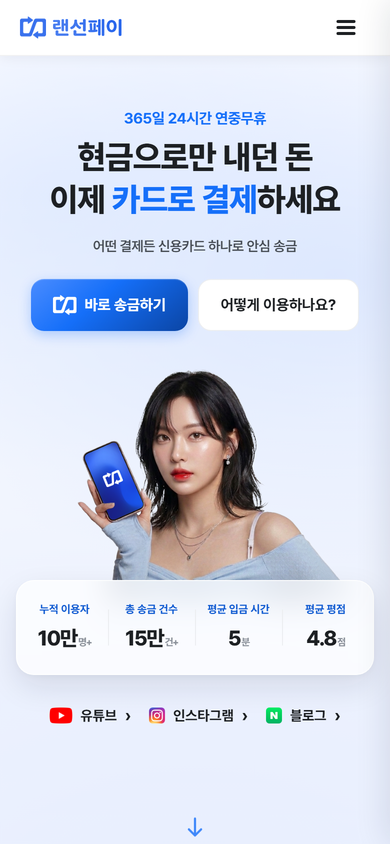
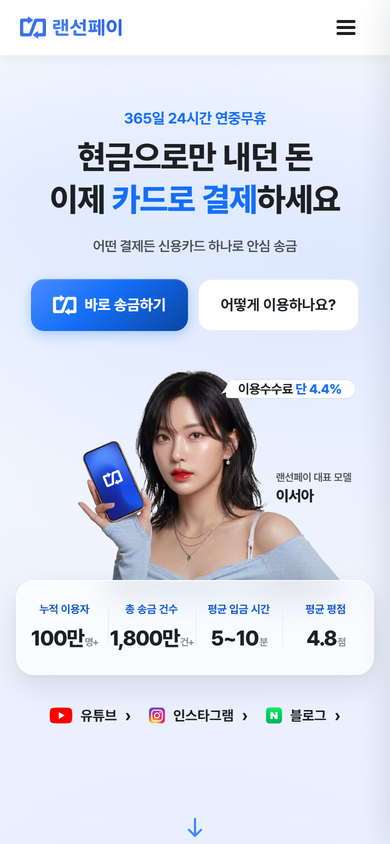
클라이언트 수정 요청 1 · 2 · 3 · 4 · 6번 반영
1. 메인 「쉽고 빠른 결제 시스템」 단락을 사진 띠(불편했던 현금거래) 앞으로
2. 히어로 모델에 말풍선 「이용수수료 단 4.4%」 · 모델명 캡션 추가
3. 연락처 전체 — 대표번호 1577-6369 · 카카오채널 @랜선페이 · 이메일 lanpay567@naver.com
4. 숫자 — 누적 100만명 · 송금 1,800만건 · 입금 5~10분 (회사소개 · 가이드 목업 포함)
6. 푸터 — 운영시간 제거 · 통신판매업신고번호(공란) 추가

diff --git a/index.html b/index.html
@@ -915,6 +915,24 @@
     max-height:calc(var(--mw) / 1.398 * 1.15);}
   /* 새 사진은 원본과 좌우 여백이 달라서, 사람이 예전과 똑같은 자리에 오도록 맞춘다 */
   .hmodel img{position:absolute; top:0; left:15.47%; width:88.58%; height:auto; display:block;}
+  /* 말풍선 · 모델명 — 사진 칸 안 오른쪽 빈 자리에 */
+  .hbub{position:absolute; z-index:3; top:5%; right:3%;
+    padding:9px 13px 9px 12px; border-radius:16px 16px 16px 4px;
+    background:#fff; color:var(--ink); font-size:13px; font-weight:700; letter-spacing:-.3px; white-space:nowrap;
+    box-shadow:0 12px 26px -14px rgba(15,23,42,.45), 0 0 0 1px rgba(21,111,249,.08);}
+  .hbub b{color:var(--primary); font-weight:800;}
+  .hbub:after{content:''; position:absolute; left:-5px; bottom:6px; width:12px; height:12px;
+    background:#fff; clip-path:polygon(100% 0, 100% 100%, 0 100%); transform:skewY(-20deg);}
+  .hname{position:absolute; z-index:3; right:4%; top:44%; text-align:left; line-height:1.25;}
+  .hname small{display:block; font-size:10.5px; font-weight:600; color:var(--sub); letter-spacing:-.2px;}
+  .hname b{display:block; margin-top:2px; font-size:15px; font-weight:800; color:var(--ink); letter-spacing:-.4px;}
+  @media(min-width:768px){
+    .hbub{top:6%; right:2%; padding:12px 18px 12px 16px; font-size:16px; border-radius:20px 20px 20px 5px;}
+    .hbub:after{left:-6px; bottom:8px; width:15px; height:15px;}
+    .hname{right:3%; top:46%;}
+    .hname small{font-size:12.5px;}
+    .hname b{font-size:19px; margin-top:3px;}
+  }
   /* 글 묶음과 사진 사이 최소 숨통 */
   .hero > .hero2{margin-bottom:clamp(22px, 4svh, 54px);}
   /* PC — 사진 1.2배 · 40px 위로 */
@@ -1458,13 +1476,15 @@
 
     <div class="hmodel">
       <img src="img/people3.png?v=1" alt="랜선페이를 쓰는 모델">
+      <span class="hbub">이용수수료 <b>단 4.4%</b></span>
+      <span class="hname"><small>랜선페이 대표 모델</small><b>이서아</b></span>
     </div>
 
     <div class="wrap statwrap">
       <div class="hstats">
-        <div><span>누적 이용자</span><b><em class="cnt" data-to="10">0</em>만<i>명+</i></b></div>
-        <div><span>총 송금 건수</span><b><em class="cnt" data-to="15">0</em>만<i>건+</i></b></div>
-        <div><span>평균 입금 시간</span><b><em class="cnt" data-to="5">0</em><i>분</i></b></div>
+        <div><span>누적 이용자</span><b><em class="cnt" data-to="100">0</em>만<i>명+</i></b></div>
+        <div><span>총 송금 건수</span><b><em class="cnt" data-to="1800" data-comma="1">0</em>만<i>건+</i></b></div>
+        <div><span>평균 입금 시간</span><b>5~<em class="cnt" data-to="10">0</em><i>분</i></b></div>
         <div><span>평균 평점</span><b><em class="cnt" data-to="4.8" data-dec="1">0</em><i>점</i></b></div>
       </div>
     </div>
@@ -1521,6 +1541,47 @@
 
   <!-- ===== 랜선페이를 써야 하는 이유 — 1~7 펼침 ===== -->
   <div class="midband">
+  <!-- ===== 5. 이용 방법 — 6단계 상세 ===== -->
+  <section class="sec tint" id="howto">
+    <div class="wrap">
+      <div class="head">
+        <h2 class="h-sec"><span class="hl">쉽고 빠른</span> 결제 시스템</h2>
+        <a class="morelink" href="guide.html">자세한 이용가이드 보기<svg viewBox="0 0 22 22" aria-hidden="true"><path d="M8.5 4.5 15 11l-6.5 6.5" stroke="currentColor" stroke-width="2.6" fill="none" stroke-linecap="round" stroke-linejoin="round"/></svg></a>
+      </div>
+
+      <div class="hwrap">
+        <img class="hpic" src="img/band-bg.jpg?v=3" alt="랜선페이 앱으로 결제하는 모습">
+        <div class="hcol">
+          <div class="hphone"><img id="hshot" src="img/guide_shots/login.png?v=2" alt="단계별 앱 화면"></div>
+          <div class="hnav">
+            <button class="hbtn" type="button" id="hprev" aria-label="이전 단계">‹</button>
+            <span class="hcount"><b id="hnow">1</b> / 4</span>
+            <button class="hbtn" type="button" id="hnext" aria-label="다음 단계">›</button>
+          </div>
+        </div>
+        <ol class="tline">
+          <li class="tstep on" data-shot="img/guide_shots/reg2.png?v=1" role="button" tabindex="0">
+            <span class="tno">1</span>
+            <div class="tbd"><h3>결제 정보 등록</h3><p>결제할 항목과 금액 · 받는 분 계좌를 입력하세요<br>한 번 등록하면 다음부터는 불러와서 씁니다</p></div>
+          </li>
+          <li class="tstep" data-shot="img/guide_shots/reg4.png?v=1" role="button" tabindex="0">
+            <span class="tno">2</span>
+            <div class="tbd"><h3>서류 검토</h3><p>임대차계약서 같은 증빙 서류를 올리면<br>연중무휴로 검토해 보통 10분 안에 알려드려요</p></div>
+          </li>
+          <li class="tstep" data-shot="img/guide_shots/reg3.png?v=1" role="button" tabindex="0">
+            <span class="tno">3</span>
+            <div class="tbd"><h3>신용카드로 결제</h3><p>등록한 내용을 확인하고 카드로 결제하세요<br>일시불부터 최대 24개월 할부까지 됩니다</p></div>
+          </li>
+          <li class="tstep" data-shot="img/guide_shots/done.png?v=1" role="button" tabindex="0">
+            <span class="tno">4</span>
+            <div class="tbd"><h3>송금 확인</h3><p>결제가 확인되면 평균 5분 안에 입금되고<br>내역은 마이페이지에서 바로 볼 수 있어요</p></div>
+          </li>
+        </ol>
+      </div>
+
+    </div>
+  </section>
+
   <div class="wrap bandhead">
     <div class="bandclip">
       <div class="bandart">
@@ -1570,46 +1631,6 @@
     </div>
   </section>
 
-  <!-- ===== 5. 이용 방법 — 6단계 상세 ===== -->
-  <section class="sec tint" id="howto">
-    <div class="wrap">
-      <div class="head">
-        <h2 class="h-sec"><span class="hl">쉽고 빠른</span> 결제 시스템</h2>
-        <a class="morelink" href="guide.html">자세한 이용가이드 보기<svg viewBox="0 0 22 22" aria-hidden="true"><path d="M8.5 4.5 15 11l-6.5 6.5" stroke="currentColor" stroke-width="2.6" fill="none" stroke-linecap="round" stroke-linejoin="round"/></svg></a>
-      </div>
-
-      <div class="hwrap">
-        <img class="hpic" src="img/band-bg.jpg?v=3" alt="랜선페이 앱으로 결제하는 모습">
-        <div class="hcol">
-          <div class="hphone"><img id="hshot" src="img/guide_shots/login.png?v=2" alt="단계별 앱 화면"></div>
-          <div class="hnav">
-            <button class="hbtn" type="button" id="hprev" aria-label="이전 단계">‹</button>
-            <span class="hcount"><b id="hnow">1</b> / 4</span>
-            <button class="hbtn" type="button" id="hnext" aria-label="다음 단계">›</button>
-          </div>
-        </div>
-        <ol class="tline">
-          <li class="tstep on" data-shot="img/guide_shots/reg2.png?v=1" role="button" tabindex="0">
-            <span class="tno">1</span>
-            <div class="tbd"><h3>결제 정보 등록</h3><p>결제할 항목과 금액 · 받는 분 계좌를 입력하세요<br>한 번 등록하면 다음부터는 불러와서 씁니다</p></div>
-          </li>
-          <li class="tstep" data-shot="img/guide_shots/reg4.png?v=1" role="button" tabindex="0">
-            <span class="tno">2</span>
-            <div class="tbd"><h3>서류 검토</h3><p>임대차계약서 같은 증빙 서류를 올리면<br>연중무휴로 검토해 보통 10분 안에 알려드려요</p></div>
-          </li>
-          <li class="tstep" data-shot="img/guide_shots/reg3.png?v=1" role="button" tabindex="0">
-            <span class="tno">3</span>
-            <div class="tbd"><h3>신용카드로 결제</h3><p>등록한 내용을 확인하고 카드로 결제하세요<br>일시불부터 최대 24개월 할부까지 됩니다</p></div>
-          </li>
-          <li class="tstep" data-shot="img/guide_shots/done.png?v=1" role="button" tabindex="0">
-            <span class="tno">4</span>
-            <div class="tbd"><h3>송금 확인</h3><p>결제가 확인되면 평균 5분 안에 입금되고<br>내역은 마이페이지에서 바로 볼 수 있어요</p></div>
-          </li>
-        </ol>
-      </div>
-
-    </div>
-  </section>
 
   <!-- ===== 4. 기능 3가지 — 흰 카드 3장 + 모서리 배지 ===== -->
   <section class="sec tint" id="featsec">
@@ -1707,7 +1728,7 @@
   <section class="sec tint" id="rvsec">
     <div class="wrap">
       <div class="head">
-        <h2 class="h-sec"><span class="soft">10만명+이 선택한 랜선페이</span><br>평균 평점 <span class="hl">4.8점</span></h2>
+        <h2 class="h-sec"><span class="soft">100만명+이 선택한 랜선페이</span><br>평균 평점 <span class="hl">4.8점</span></h2>
       </div>
     </div>
     <div class="rvband">
@@ -1809,9 +1830,11 @@
       <span><b>대표</b>김남기</span>
       <span><b>서버책임 · 개인정보관리자</b>민기범</span>
       <span><b>사업자등록번호</b>437-88-03148</span>
+      <span><b>통신판매업신고번호</b></span>
       <span><b>주소</b>충청남도 천안시 서북구 쌍용대로 234, 방영학생활건강빌딩 3층 (성정동)</span>
-      <span><b>대표번호</b>1577-6369 (평일 9:00~18:00)</span>
-      <span><b>메일</b>help@lanseonpay.co.kr</span>
+      <span><b>대표번호</b>1577-6369</span>
+      <span><b>카카오채널</b>@랜선페이</span>
+      <span><b>이메일</b>lanpay567@naver.com</span>
     </div>
     <p class="fnote">랜선페이는 전자금융거래법에 따라 등록된 전자지급결제대행(PG) 서비스입니다.</p>
     <p class="fcopy">Copyright © 2026 랜선페이. All rights reserved.</p>
@@ -2238,7 +2261,8 @@
     var to = parseFloat(el.dataset.to), dec = +(el.dataset.dec || 0), t0 = performance.now(), dur = 1100;
     (function tick(now){
       var p = Math.min(1, (now - t0) / dur), e = 1 - Math.pow(1 - p, 3);
-      el.textContent = (to * e).toFixed(dec);
+      var v = (to * e).toFixed(dec);
+      el.textContent = el.dataset.comma ? Number(v).toLocaleString('ko-KR') : v;
       if(p < 1) requestAnimationFrame(tick);
     })(t0);
   }

diff --git a/about.html b/about.html
@@ -485,7 +485,7 @@
       <div class="numwrap">
         <div class="num-tx">
           <h2 class="h-sec">랜선페이는 지금도<br><span class="hl">함께 성장하고 있습니다</span></h2>
-          <p><b>10만여 명</b>이 선택했고 하루에도 <b>수백 건</b>이 랜선페이를 통해 결제됩니다.<br class="pcbr">
+          <p><b>100만여 명</b>이 선택했고 하루에도 <b>수백 건</b>이 랜선페이를 통해 결제됩니다.<br class="pcbr">
             쌓이는 거래만큼 서비스와 신뢰도 하루하루 더 단단해지고 있습니다.</p>
           <div class="astats">
             <div class="ast"><b><span class="countup">10</span>만명<i>+</i></b><span>누적 이용자</span></div>
@@ -524,7 +524,7 @@
             <circle cx="396" cy="82" r="11" fill="#2563EB" opacity=".14"/>
             <circle cx="396" cy="82" r="5.5" fill="#2563EB"/>
             <text x="396" y="52" text-anchor="middle" font-size="19" font-weight="800"
-              fill="#1D4ED8" letter-spacing="-.6">10만명+</text>
+              fill="#1D4ED8" letter-spacing="-.6">100만명+</text>
           </svg>
         </div>
       </div>
@@ -557,9 +557,11 @@
       <span><b>대표</b>김남기</span>
       <span><b>서버책임 · 개인정보관리자</b>민기범</span>
       <span><b>사업자등록번호</b>437-88-03148</span>
+      <span><b>통신판매업신고번호</b></span>
       <span><b>주소</b>충청남도 천안시 서북구 쌍용대로 234, 방영학생활건강빌딩 3층 (성정동)</span>
-      <span><b>대표번호</b>1577-6369 (평일 9:00~18:00)</span>
-      <span><b>메일</b>help@lanseonpay.co.kr</span>
+      <span><b>대표번호</b>1577-6369</span>
+      <span><b>카카오채널</b>@랜선페이</span>
+      <span><b>이메일</b>lanpay567@naver.com</span>
     </div>
     <p class="fnote">랜선페이는 전자금융거래법에 따라 등록된 전자지급결제대행(PG) 서비스입니다.</p>
     <p class="fcopy">Copyright © 2026 랜선페이. All rights reserved.</p>

diff --git a/cs.html b/cs.html
@@ -63,7 +63,7 @@
 
       <div class="call">
         <b>1577-6369</b>
-        <span>평일 09:00~18:00 (점심 12:00~13:00)</span>
+        <span>대표번호</span>
       </div>
 
       <div class="grp">문의하기</div>
@@ -72,10 +72,10 @@
           <span class="tx"><b>채팅 상담</b><span>365일 24시간</span></span>
           <iconify-icon class="gv" icon="mingcute:right-line"></iconify-icon></a>
         <a class="row" href="#">
-          <span class="tx"><b>카카오톡 1:1 상담</b><span>평일 09:00~18:00</span></span>
+          <span class="tx"><b>카카오톡 1:1 상담</b><span>카카오채널 @랜선페이</span></span>
           <iconify-icon class="gv" icon="mingcute:right-line"></iconify-icon></a>
         <a class="row" href="#">
-          <span class="tx"><b>메일 문의</b><span>help@lanseonpay.co.kr</span></span>
+          <span class="tx"><b>메일 문의</b><span>lanpay567@naver.com</span></span>
           <iconify-icon class="gv" icon="mingcute:right-line"></iconify-icon></a>
       </div>
 
@@ -126,9 +126,11 @@
       <span><b>대표</b>김남기</span>
       <span><b>서버책임 · 개인정보관리자</b>민기범</span>
       <span><b>사업자등록번호</b>437-88-03148</span>
+      <span><b>통신판매업신고번호</b></span>
       <span><b>주소</b>충청남도 천안시 서북구 쌍용대로 234, 방영학생활건강빌딩 3층 (성정동)</span>
-      <span><b>대표번호</b>1577-6369 (평일 9:00~18:00)</span>
-      <span><b>메일</b>help@lanseonpay.co.kr</span>
+      <span><b>대표번호</b>1577-6369</span>
+      <span><b>카카오채널</b>@랜선페이</span>
+      <span><b>이메일</b>lanpay567@naver.com</span>
     </div>
     <p class="fnote">랜선페이는 전자금융거래법에 따라 등록된 전자지급결제대행(PG) 서비스입니다.</p>
     <p class="fcopy">Copyright © 2026 랜선페이. All rights reserved.</p>

diff --git a/약관.html b/약관.html
@@ -92,7 +92,7 @@
 <h3>7. 파기 절차</h3>
 <p>보유 기간이 지난 개인정보는 재생할 수 없는 방법으로 지체 없이 파기합니다.</p>
 <h3>8. 개인정보 보호책임자</h3>
-<p>보호책임자 — 민기범 · help@lanseonpay.co.kr · 1577-6369</p>
+<p>보호책임자 — 민기범 · lanpay567@naver.com · 1577-6369</p>
 <p class="tdate">이 방침은 2026년 8월 1일부터 적용됩니다.</p>
 </article>
       <article class="tdoc" id="thirdparty"><h2>개인정보 3자 제공 고지</h2>
@@ -122,9 +122,11 @@
       <span><b>대표</b>김남기</span>
       <span><b>서버책임 · 개인정보관리자</b>민기범</span>
       <span><b>사업자등록번호</b>437-88-03148</span>
+      <span><b>통신판매업신고번호</b></span>
       <span><b>주소</b>충청남도 천안시 서북구 쌍용대로 234, 방영학생활건강빌딩 3층 (성정동)</span>
-      <span><b>대표번호</b>1577-6369 (평일 9:00~18:00)</span>
-      <span><b>메일</b>help@lanseonpay.co.kr</span>
+      <span><b>대표번호</b>1577-6369</span>
+      <span><b>카카오채널</b>@랜선페이</span>
+      <span><b>이메일</b>lanpay567@naver.com</span>
     </div>
     <p class="fnote">랜선페이는 전자금융거래법에 따라 등록된 전자지급결제대행(PG) 서비스입니다.</p>
     <p class="fcopy">Copyright © 2026 랜선페이. All rights reserved.</p>

diff --git a/app.html b/app.html
@@ -586,8 +586,9 @@
       <b>주식회사 미라클컴퍼니</b>
       <p>대표이사 : 김남기 <i>|</i> 사업자번호 : 437-88-03148</p>
       <p>주소 : 충청남도 천안시 서북구 쌍용대로 234 · 3층 (성정동)</p>
-      <p>대표번호 : 1577-6369 (평일 09:00~18:00)</p>
-      <p>이메일 문의 : help@lanseonpay.co.kr</p>
+      <p>대표번호 : 1577-6369 <i>|</i> 카카오채널 : @랜선페이</p>
+      <p>이메일 : lanpay567@naver.com</p>
+      <p>통신판매업신고번호 : </p>
       <p class="cp">랜선페이는 전자금융거래법에 따라 등록된 전자지급결제대행(PG) 서비스입니다.</p>
     </div>
   </div>
@@ -634,8 +635,9 @@
       <b>주식회사 미라클컴퍼니</b>
       <p>대표이사 : 김남기 <i>|</i> 사업자번호 : 437-88-03148</p>
       <p>주소 : 충청남도 천안시 서북구 쌍용대로 234 · 3층 (성정동)</p>
-      <p>대표번호 : 1577-6369 (평일 09:00~18:00)</p>
-      <p>이메일 문의 : help@lanseonpay.co.kr</p>
+      <p>대표번호 : 1577-6369 <i>|</i> 카카오채널 : @랜선페이</p>
+      <p>이메일 : lanpay567@naver.com</p>
+      <p>통신판매업신고번호 : </p>
       <p class="cp">랜선페이는 전자금융거래법에 따라 등록된 전자지급결제대행(PG) 서비스입니다.</p>
     </div>
   </div>

diff --git a/화면/고객센터.html b/화면/고객센터.html
@@ -61,14 +61,14 @@
 
     <div class="tel">
       <b>1577-6369</b>
-      <span>평일 09:00~18:00 (점심 12:00~13:00)</span>
+      <span>대표번호</span>
     </div>
 
     <div class="glabel">문의하기</div>
     <div class="gcard">
       <a class="grow" href="#"><span class="tx"><b>채팅 상담</b><span>365일 24시간</span></span><i>›</i></a>
-      <a class="grow" href="#"><span class="tx"><b>카카오톡 1:1 상담</b><span>평일 09:00~18:00</span></span><i>›</i></a>
-      <a class="grow" href="mailto:help@lanseonpay.co.kr"><span class="tx"><b>메일 문의</b><span>help@lanseonpay.co.kr</span></span><i>›</i></a>
+      <a class="grow" href="#"><span class="tx"><b>카카오톡 1:1 상담</b><span>카카오채널 @랜선페이</span></span><i>›</i></a>
+      <a class="grow" href="mailto:lanpay567@naver.com"><span class="tx"><b>메일 문의</b><span>lanpay567@naver.com</span></span><i>›</i></a>
     </div>
 
     <div class="glabel">약관 · 정책</div>

diff --git a/faq.html b/faq.html
@@ -142,9 +142,11 @@
       <span><b>대표</b>김남기</span>
       <span><b>서버책임 · 개인정보관리자</b>민기범</span>
       <span><b>사업자등록번호</b>437-88-03148</span>
+      <span><b>통신판매업신고번호</b></span>
       <span><b>주소</b>충청남도 천안시 서북구 쌍용대로 234, 방영학생활건강빌딩 3층 (성정동)</span>
-      <span><b>대표번호</b>1577-6369 (평일 9:00~18:00)</span>
-      <span><b>메일</b>help@lanseonpay.co.kr</span>
+      <span><b>대표번호</b>1577-6369</span>
+      <span><b>카카오채널</b>@랜선페이</span>
+      <span><b>이메일</b>lanpay567@naver.com</span>
     </div>
     <p class="fnote">랜선페이는 전자금융거래법에 따라 등록된 전자지급결제대행(PG) 서비스입니다.</p>
     <p class="fcopy">Copyright © 2026 랜선페이. All rights reserved.</p>

diff --git a/guide.html b/guide.html
@@ -605,9 +605,11 @@
       <span><b>대표</b>김남기</span>
       <span><b>서버책임 · 개인정보관리자</b>민기범</span>
       <span><b>사업자등록번호</b>437-88-03148</span>
+      <span><b>통신판매업신고번호</b></span>
       <span><b>주소</b>충청남도 천안시 서북구 쌍용대로 234, 방영학생활건강빌딩 3층 (성정동)</span>
-      <span><b>대표번호</b>1577-6369 (평일 9:00~18:00)</span>
-      <span><b>메일</b>help@lanseonpay.co.kr</span>
+      <span><b>대표번호</b>1577-6369</span>
+      <span><b>카카오채널</b>@랜선페이</span>
+      <span><b>이메일</b>lanpay567@naver.com</span>
     </div>
     <p class="fnote">랜선페이는 전자금융거래법에 따라 등록된 전자지급결제대행(PG) 서비스입니다.</p>
     <p class="fcopy">Copyright © 2026 랜선페이. All rights reserved.</p>

diff --git a/notice.html b/notice.html
@@ -288,9 +288,11 @@
       <span><b>대표</b>김남기</span>
       <span><b>서버책임 · 개인정보관리자</b>민기범</span>
       <span><b>사업자등록번호</b>437-88-03148</span>
+      <span><b>통신판매업신고번호</b></span>
       <span><b>주소</b>충청남도 천안시 서북구 쌍용대로 234, 방영학생활건강빌딩 3층 (성정동)</span>
-      <span><b>대표번호</b>1577-6369 (평일 9:00~18:00)</span>
-      <span><b>메일</b>help@lanseonpay.co.kr</span>
+      <span><b>대표번호</b>1577-6369</span>
+      <span><b>카카오채널</b>@랜선페이</span>
+      <span><b>이메일</b>lanpay567@naver.com</span>
     </div>
     <p class="fnote">랜선페이는 전자금융거래법에 따라 등록된 전자지급결제대행(PG) 서비스입니다.</p>
     <p class="fcopy">Copyright © 2026 랜선페이. All rights reserved.</p>

diff --git a/화면/약관.html b/화면/약관.html
@@ -88,7 +88,7 @@
 <h3>7. 파기 절차</h3>
 <p>보유 기간이 지난 개인정보는 재생할 수 없는 방법으로 지체 없이 파기합니다.</p>
 <h3>8. 개인정보 보호책임자</h3>
-<p>보호책임자 — 민기범 · help@lanseonpay.co.kr · 1577-6369</p>
+<p>보호책임자 — 민기범 · lanpay567@naver.com · 1577-6369</p>
 <p class="tdate">이 방침은 2026년 8월 1일부터 적용됩니다.</p>
 </article>
       <article class="tdoc" id="thirdparty"><h2>개인정보 3자 제공 고지</h2>

diff --git a/화면/_cap.html b/화면/_cap.html
@@ -31,7 +31,8 @@ f.onload = function () {
         var to = e.getAttribute('data-to'), dec = e.getAttribute('data-dec');
         var s = d.createElement('em');
         s.style.fontStyle = 'normal';
-        s.textContent = dec ? Number(to).toFixed(+dec) : to;
+        var v = dec ? Number(to).toFixed(+dec) : to;
+        s.textContent = e.getAttribute('data-comma') ? Number(v).toLocaleString('ko-KR') : v;
         e.parentNode.replaceChild(s, e);
       });
       var k = q.get('k') || '';
